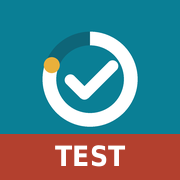
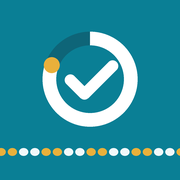
Add files via upload

Changed region(s): [[0.0, 0.7222, 1.0, 1.0]]

diff --git a/index.html b/index.html
@@ -2,16 +2,16 @@
 <html lang="pl">
 <head>
 <meta charset="utf-8">
-<meta name="viewport" content="width=device-width, initial-scale=1, viewport-fit=cover">
 <meta name="robots" content="noindex, nofollow">
+<meta name="viewport" content="width=device-width, initial-scale=1, viewport-fit=cover">
 <link rel="manifest" href="manifest.webmanifest">
 <link rel="apple-touch-icon" href="apple-touch-icon.png">
 <link rel="icon" href="icon-192.png">
-<meta name="theme-color" content="#b3402e">
+<meta name="theme-color" content="#0a7f95">
 <meta name="mobile-web-app-capable" content="yes">
 <meta name="apple-mobile-web-app-capable" content="yes">
-<meta name="apple-mobile-web-app-title" content="Rytm test">
-<title>Rytm – wersja testowa</title>
+<meta name="apple-mobile-web-app-title" content="Rytm">
+<title>Rytm</title>
 <link rel="stylesheet" href="fonts.css">
 <style>
 /* Layout: one column of lane-like panels; tabs for overview and records; records as a distance × stroke board */
@@ -636,8 +636,7 @@ body.is-test #notices{padding-top:calc(40px + env(safe-area-inset-top,0px))}
 </nav>
 
 <script src="notify.js"></script>
-<script>window.RytmConfig={"test": true, "label": "WERSJA TESTOWA", "dbName": "rytm-test", "keys": {"journal": "rytmTestDziennik", "marker": "rytmTestBaza"}, "filePrefix": "rytm-TEST"}</script>
-<script src="testpanel.js"></script>
+<script>window.RytmConfig=Object.assign(window.RytmConfig||{},{"legacy": false})</script>
 <script src="vendor/chart.umd.js"></script>
 <script src="fit-vendor.js"></script>
 <script src="swim.js"></script>
@@ -651,7 +650,7 @@ body.is-test #notices{padding-top:calc(40px + env(safe-area-inset-top,0px))}
 <script src="habits.js"></script>
 <script src="trainings.js"></script>
 <script>
-const SAMPLE_CSV = "Typ aktywności,Data,Ulubiony,Tytuł,Dystans,Suma kalorii,Czas,Średnie tętno,Maksymalne tętno,Aerobowy TE,Średnie tempo,Średni Swolf,Czas ruchu\nPływanie w basenie,2026-08-03 07:00:00,false,Syntetyczny basen 1,1000,280,00:28:00,138,168,2.5,2:28,35,00:26:00\nPływanie w basenie,2026-08-07 07:00:00,false,Syntetyczny basen 2,1250,289,00:31:00,139,169,2.6,2:29,36,00:29:00\nPływanie w basenie,2026-08-09 07:00:00,false,Syntetyczny basen 3,1500,298,00:34:00,140,170,2.7,2:30,37,00:32:00\nPływanie w basenie,2026-08-13 07:00:00,false,Syntetyczny basen 4,1750,307,00:37:00,141,171,2.8,2:31,38,00:35:00\nPływanie w basenie,2026-08-15 07:00:00,false,Syntetyczny basen 5,2000,316,00:40:00,142,172,2.9,2:32,39,00:38:00\nPływanie w basenie,2026-08-19 07:00:00,false,Syntetyczny basen 6,1000,325,00:43:00,143,173,3.0,2:33,40,00:41:00\nPływanie w basenie,2026-08-21 07:00:00,false,Syntetyczny basen 7,1250,334,00:28:00,144,174,2.5,2:34,35,00:26:00\nPływanie w basenie,2026-08-25 07:00:00,false,Syntetyczny basen 8,1500,343,00:31:00,138,175,2.6,2:35,36,00:29:00\nPływanie w basenie,2026-08-27 07:00:00,false,Syntetyczny basen 9,1750,352,00:34:00,139,176,2.7,2:36,37,00:32:00\nPływanie w basenie,2026-08-31 07:00:00,false,Syntetyczny basen 10,2000,361,00:37:00,140,177,2.8,2:37,38,00:35:00\nPływanie w basenie,2026-09-02 07:00:00,false,Syntetyczny basen 11,1000,370,00:40:00,141,178,2.9,2:38,39,00:38:00\nPływanie w basenie,2026-09-06 07:00:00,false,Syntetyczny basen 12,1250,379,00:43:00,142,168,3.0,2:39,40,00:41:00\nPływanie w basenie,2026-09-08 07:00:00,false,Syntetyczny basen 13,1500,388,00:28:00,143,169,2.5,2:40,35,00:26:00\nPływanie w basenie,2026-09-12 07:00:00,false,Syntetyczny basen 14,1750,397,00:31:00,144,170,2.6,2:41,36,00:29:00\nPływanie w basenie,2026-09-14 07:00:00,false,Syntetyczny basen 15,2000,406,00:34:00,138,171,2.7,2:42,37,00:32:00\nPływanie w basenie,2026-09-18 07:00:00,false,Syntetyczny basen 16,1000,415,00:37:00,139,172,2.8,2:43,38,00:35:00\nPływanie w basenie,2026-09-29 07:00:00,false,Syntetyczny trening 2000 m,2000,292,00:41:00,150,188,3.4,2:03,37,00:38:30\nSiatkówka,2026-08-12 18:00:00,false,Syntetyczna siatkówka 1,--,410,01:30:00,126,169,2.3,--,--,01:24:00\nSiatkówka,2026-09-16 18:00:00,false,Syntetyczna siatkówka 2,--,395,01:20:00,124,166,2.1,--,--,01:15:00\nBieganie,2026-08-23 17:30:00,false,Syntetyczny bieg,4.20,310,00:27:00,151,178,3.0,--,--,00:26:30\n";
+const SAMPLE_CSV = /*SAMPLE_CSV*/null;
 // stage 2B: all data is in the data store (store.js, through bridge.js); the stage-1 keys are only read by the migration
 const $ = id => document.getElementById(id);
 
@@ -1199,7 +1198,9 @@ function renderData(){
   $("dWhere").innerHTML = [
     RytmData.mode === "normal" ? "Nawyki, notatki i treningi: w bazie danych na tym urządzeniu (IndexedDB)." : "Zapis jest wyłączony: pokazuję dane bez możliwości zmian.",
     inClaude ? "Nawyki i notatki: także na twoim koncie w Claude." : "",
-    "Stary zapis (sprzed przeniesienia danych) zostaje na urządzeniu bez zmian. Aplikacja go nie usuwa.",
+    RytmData.cfg.legacy === false
+      ? "Dane z poprzedniej wersji (w Claude) przenosisz plikiem kopii: zapisz kopię tam, a tutaj użyj „Wczytaj kopię”."
+      : "Stary zapis (sprzed przeniesienia danych) zostaje na urządzeniu bez zmian. Aplikacja go nie usuwa.",
   ].filter(Boolean).map(x=>`<li>${esc(x)}</li>`).join("") + `<li id="dUsage">Zajęte miejsce: sprawdzam…</li>`;
   try{ navigator.storage.estimate().then(e=>{ const el = $("dUsage"); if(el) el.textContent = `Zajęte miejsce przez tę stronę: ${fmtMB(e.usage || 0)} (wg przeglądarki).`; }, ()=>{ const el = $("dUsage"); if(el) el.remove(); }); }
   catch(e){ const el = $("dUsage"); if(el) el.remove(); }
@@ -1271,4 +1272,3 @@ window.RytmApp.ready = (async ()=>{
 </script>
 </body>
 </html>
-<!-- Test aktualizacji Rytm -->

diff --git a/dataui.js b/dataui.js
@@ -9,7 +9,10 @@
 (function (g) {
   "use strict";
   const Store = g.RytmStore, Migrate = g.RytmMigrate, A = g.RytmAdapters, Bridge = g.RytmBridge, Backup = g.Backup;
-  const DEFAULTS = { dbName: "rytm", keys: { journal: "rytmDziennik", marker: "rytmBaza" }, test: false, label: null, filePrefix: "rytm", storeOptions: {}, wrapAdapter: null, lockTimeoutMs: 1500 };
+  // legacy: false — this installation never looks at the stage-1 keys (no migration screen, no old data in the
+  // read-only views); they stay where they are, untouched. Used by the GitHub web app: that address never had stage-1
+  // data, and the test version on the same address writes synthetic stage-1 data there. Data comes in from a backup.
+  const DEFAULTS = { dbName: "rytm", keys: { journal: "rytmDziennik", marker: "rytmBaza" }, test: false, label: null, filePrefix: "rytm", storeOptions: {}, wrapAdapter: null, lockTimeoutMs: 1500, legacy: true };
   const user = g.RytmConfig || {};
   const cfg = Object.assign({}, DEFAULTS, user, { keys: Object.assign({}, DEFAULTS.keys, user.keys || {}) });
   const say = g.Rytm.notify;
@@ -96,7 +99,8 @@
   }
   function roError() { const e = new Error("Podgląd: zapis jest wyłączony."); e.name = "ReadOnlyError"; return e; }
   function readOnlyIdb() { return Object.assign({}, idbAdapter(), { readOnly: true, kind: "idb-podglad", commit: () => Promise.reject(roError()), destroy: () => Promise.reject(roError()) }); }
-  const legacyAdapter = () => A.createLegacyAdapter({ kv: ctx.kv || emptyKv });
+  const oldKv = () => (cfg.legacy === false ? null : ctx.kv);          // where the stage-1 keys are read from (never written)
+  const legacyAdapter = () => A.createLegacyAdapter({ kv: oldKv() || emptyKv });
   const storeOptions = extra => Object.assign({ kv: ctx.kv, keys: cfg.keys }, cfg.storeOptions, extra);
 
   function acquireLock() {
@@ -128,7 +132,7 @@
   }
   async function decide(store) {
     if (store.mode === Store.MODE.NORMAL) {
-      const need = ctx.kv ? Migrate.needed(store, ctx.kv) : { needed: false };
+      const need = oldKv() ? Migrate.needed(store, oldKv()) : { needed: false };
       if (need.needed) { ctx.pending = store; return openView("przed-migracja", legacyAdapter()); }
       return useStore(store);
     }
@@ -280,8 +284,8 @@
       html += `<p class="meta">Dane przeniesione ze starego zapisu ${esc(when(mig.verifiedAt) || "")} i sprawdzone. Stary zapis został na urządzeniu bez zmian; aplikacja już go nie używa.</p>`;
     if (ctx.reason === "baza-zniknela") {
       const extra = [`<button class="btn" type="button" data-dact="rescue">Zapisz dane ratunkowe</button>`];
-      if (ctx.kv && Migrate.hasLegacy(ctx.kv)) extra.push(`<button class="btn" type="button" data-dact="remigrate">Przenieś ponownie stary zapis</button>`);
-      html += `<div class="d-warn"><p>Możesz wczytać kopię poniżej. Dane ratunkowe to zmiany, które czekały w dzienniku, gdy baza zniknęła.${ctx.kv && Migrate.hasLegacy(ctx.kv) ? " Stary zapis (sprzed przeniesienia) też jest na urządzeniu, ale zawiera dane z dnia przeniesienia, bez późniejszych zmian." : ""}</p><div class="actions">${extra.join("")}</div></div>`;
+      if (oldKv() && Migrate.hasLegacy(oldKv())) extra.push(`<button class="btn" type="button" data-dact="remigrate">Przenieś ponownie stary zapis</button>`);
+      html += `<div class="d-warn"><p>Możesz wczytać kopię poniżej. Dane ratunkowe to zmiany, które czekały w dzienniku, gdy baza zniknęła.${oldKv() && Migrate.hasLegacy(oldKv()) ? " Stary zapis (sprzed przeniesienia) też jest na urządzeniu, ale zawiera dane z dnia przeniesienia, bez późniejszych zmian." : ""}</p><div class="actions">${extra.join("")}</div></div>`;
     }
     html += `<p class="note">Zapis na tym urządzeniu nie chroni przed usunięciem danych witryny ani zgubieniem telefonu. Chroni tylko kopia w pliku.</p>`;
     el.innerHTML = html;
@@ -327,7 +331,7 @@
 
   /* ---------- the migration screen ---------- */
   function legacyData() {
-    const L = Migrate.readLegacy(ctx.kv || emptyKv), P = L.parts, v = p => (p.present && p.ok ? p.value : null);
+    const L = Migrate.readLegacy(oldKv() || emptyKv), P = L.parts, v = p => (p.present && p.ok ? p.value : null);
     return { L, csv: v(P.csv), fit: v(P.fit), habits: v(P.habits) };
   }
   function expectedSummary(d) {
@@ -440,7 +444,7 @@
       }
     }
     let rep;
-    try { rep = await Migrate.run({ store, kv: ctx.kv, version: g.Rytm.VERSION }); }
+    try { rep = await Migrate.run({ store, kv: oldKv() || emptyKv, version: g.Rytm.VERSION }); }
     catch (e) { rep = { ok: false, error: msg(e), parts: [] }; }
     ctx.report = rep;
     if (rep.ok) {

diff --git a/notify.js b/notify.js
@@ -2,7 +2,7 @@
 // Loaded before every other script, so all modules report problems the same way.
 (function (g) {
   "use strict";
-  const VERSION = "2026.10.11-etap2b";
+  const VERSION = "2026.10.16-etap2c";
 
   /* ---------------- messages ---------------- */
   // Errors stay on screen until closed; info messages disappear on their own.
